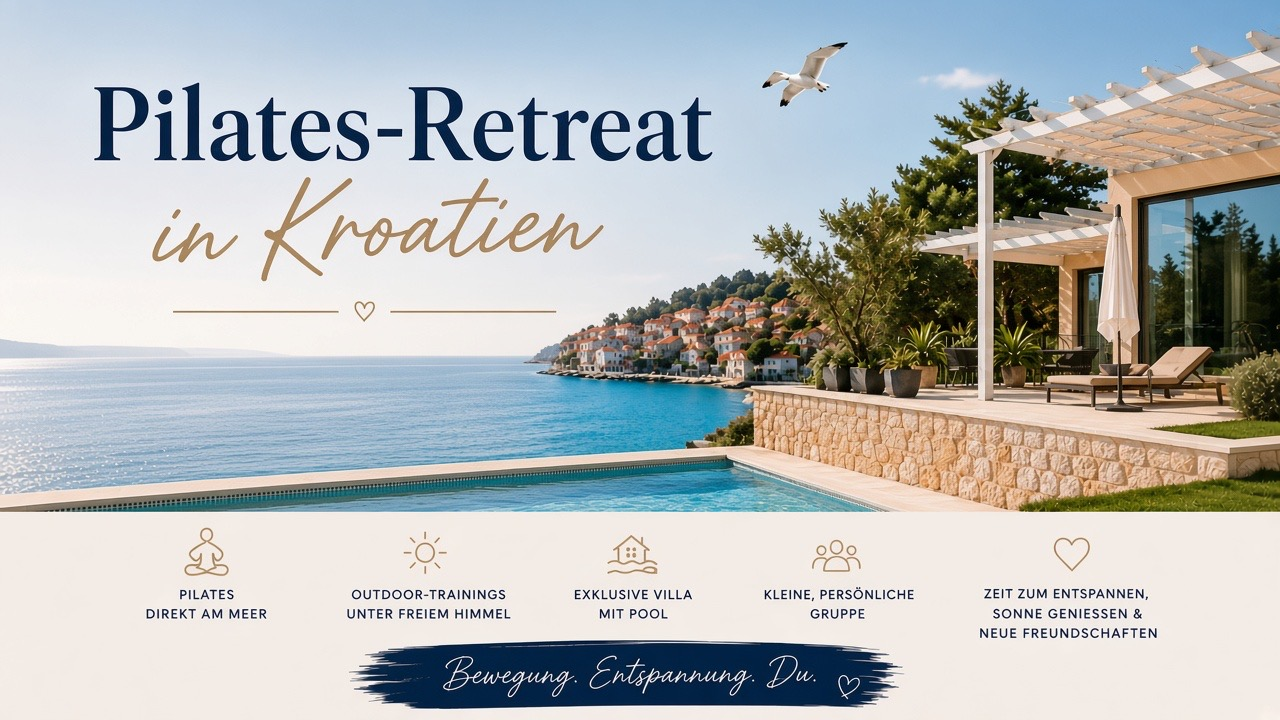
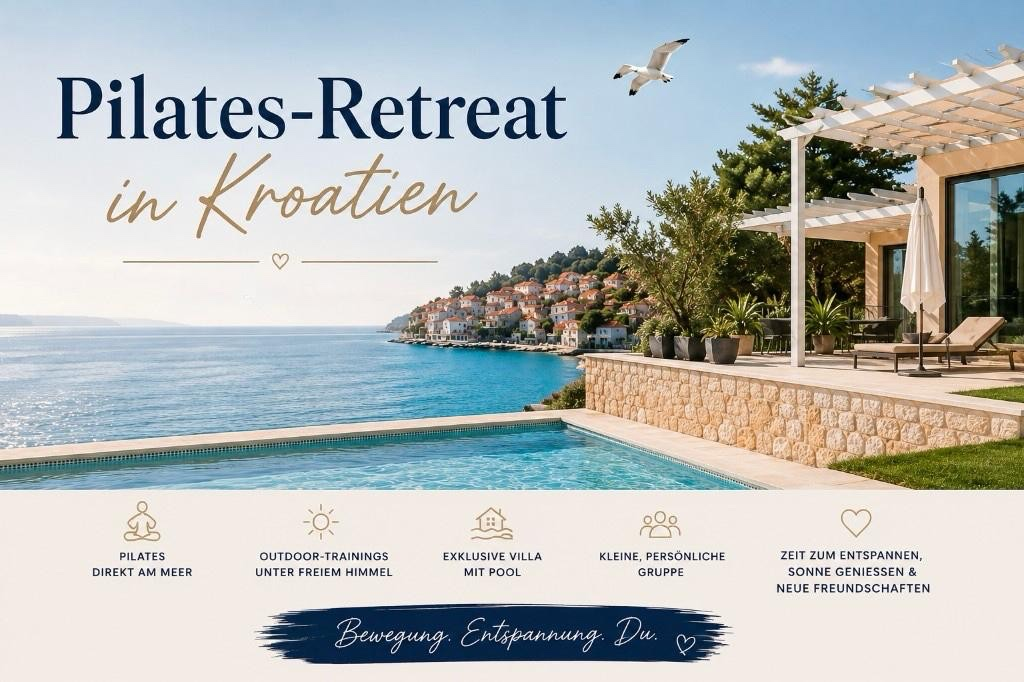
Use full uncropped retreat flyer and stop image cropping.

diff --git a/src/components/Retreat.tsx b/src/components/Retreat.tsx
@@ -51,9 +51,9 @@ export const Retreat: React.FC<RetreatProps> = ({ language, focusTerm = null }) 
       <div className="relative z-10 w-full max-w-6xl mx-auto px-3 sm:px-4 lg:px-6 mb-12">
         <div className="overflow-hidden rounded-xl md:rounded-2xl shadow-2xl">
           <img
-            src="/pilates-retreat.jpg?v=3"
+            src="/pilates-retreat.jpg?v=4"
             alt={t('retreat.title')}
-            className="w-full h-auto min-h-[280px] sm:min-h-[360px] md:min-h-[480px] object-cover object-center"
+            className="w-full h-auto object-contain block"
           />
         </div>
       </div>
